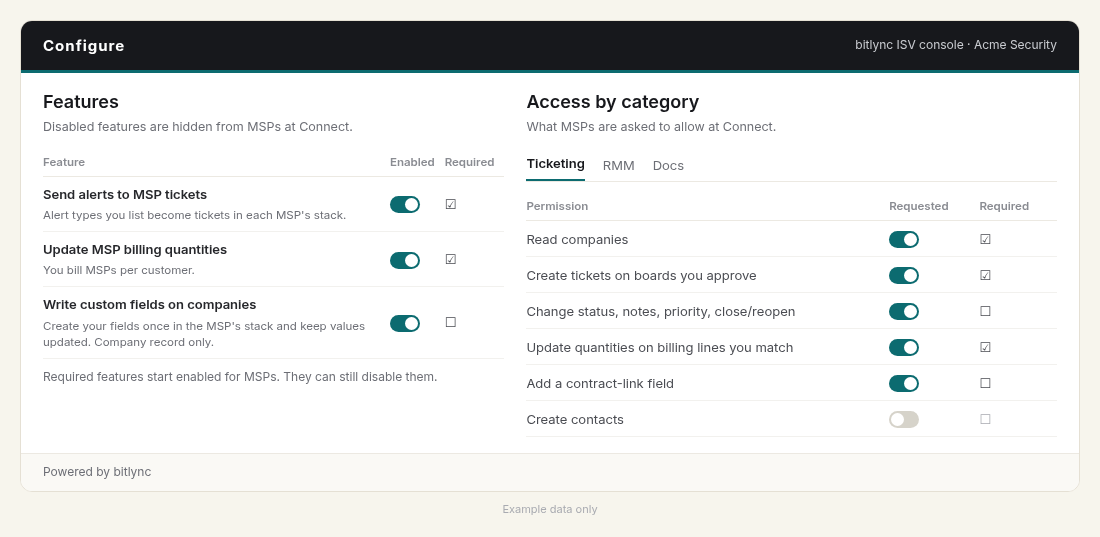
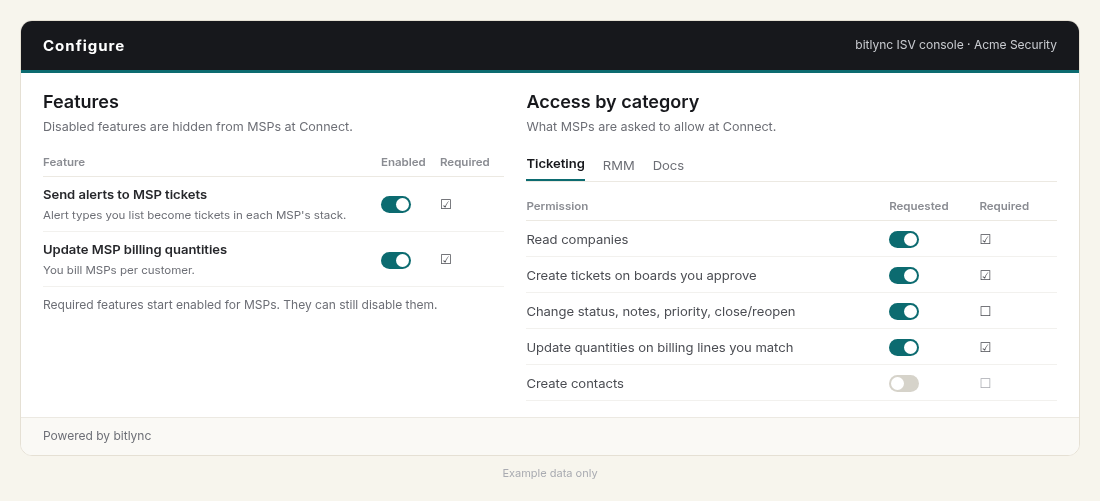
preview: Product page, least-privilege section, new section order, custom fields removed (#251)

diff --git a/preview/index.html b/preview/index.html
@@ -1926,20 +1926,20 @@ body.docs footer{border-top-color:var(--dline);color:var(--dmute)}
 <div class="msp-collage"><div class="grid g3"><div class="msp-tile msp-rise"><div class="tilt"><div class="ui"><div class="uh"><span>Connect your stack</span><span>Acme Security</span></div><div class="ub"><div class="dig-row"><span class="dig-k">Site</span><span>Stack address ✓</span></div><div class="dig-row"><span class="dig-k">Company ID</span><span>summitpeak ✓</span></div><div class="dig-row"><span class="dig-k">Keys</span><span>Public and private ✓</span></div><div class="dig-note">Example data</div></div></div></div></div><div class="msp-tile msp-rise"><div class="tilt"><div class="ui"><div class="uh"><span>Alert types</span><span>Acme Security</span></div><div class="ub"><div class="rrow" style="grid-template-columns:1fr auto"><span>Malware detected</span><span class="sev"><i></i>Critical</span></div><div class="rrow" style="grid-template-columns:1fr auto"><span>Renewal notice</span><span class="sev l"><i></i>Low</span></div><div class="rrow" style="grid-template-columns:1fr auto"><span>Connection problem</span><span class="sev m"><i></i>High</span></div></div></div></div></div><div class="msp-tile msp-rise"><div class="tilt"><div class="ui"><div class="uh"><span>Activity · Billing</span><span>Acme Security</span></div><div class="ub"><table class="bt"><tr><th>Customer</th><th>Current</th><th>Next update</th></tr><tr><td>Northwind Clinic</td><td>48 users</td><td>Oct 20</td></tr><tr><td>Cedar Health</td><td>60 users</td><td>Oct 20</td></tr></table><div class="dig-note">Example data</div></div></div></div></div></div></div></div>
 <a class="msp-cue" href="#s1" aria-label="Scroll down"><svg width="22" height="22" viewBox="0 0 22 22" aria-hidden="true" focusable="false"><path d="M5.5 8.5l5.5 5.5 5.5-5.5" fill="none" stroke="currentColor" stroke-width="1.5" stroke-linecap="round" stroke-linejoin="round"/></svg></a></section>
 <section class="pad band" id="s1"><div class="wrap"><div class="vsplit rev">
-<div class="scopy msp-rise"><span class="vtag">Connect</span><h2>One Connect flow.</h2><p class="sub">Your MSPs connect their stack in a few steps, with instructions showing exactly where to find each value. You don't build or maintain setup docs for those integrations.</p></div>
-<div class="msp-rise lag msp-shot"><div class="ui"><img src="assets/prod_connect_keys.png" srcset="assets/prod_connect_keys.png 1x, assets/prod_connect_keys@2x.png 2x" alt="Connect step: stack keys"></div></div></div></div></section><section class="pad band" id="s2"><div class="wrap"><div class="vsplit">
 <div class="scopy msp-rise"><span class="vtag">Branding</span><h2>Your brand throughout.</h2><p class="sub">The screens your MSPs see use your logo, colors and theme. Check the preview, then save and publish.</p></div>
-<div class="msp-rise lag msp-shot"><div class="ui"><img src="assets/prod_branding.png" srcset="assets/prod_branding.png 1x, assets/prod_branding@2x.png 2x" alt="Branding settings in the ISV console"></div></div></div></div></section><section class="pad band" id="s3"><div class="wrap"><div class="vsplit rev">
+<div class="msp-rise lag msp-shot"><div class="ui"><img src="assets/prod_branding.png" srcset="assets/prod_branding.png 1x, assets/prod_branding@2x.png 2x" alt="Branding settings in the ISV console"></div></div></div></div></section><section class="pad band" id="s2"><div class="wrap"><div class="vsplit">
+<div class="scopy msp-rise"><span class="vtag">Connect</span><h2>One Connect flow.</h2><p class="sub">Your MSPs connect their stack in a few steps, with instructions showing exactly where to find each value. You don't build or maintain setup docs for those integrations.</p></div>
+<div class="msp-rise lag msp-shot"><div class="ui"><img src="assets/prod_connect_keys.png" srcset="assets/prod_connect_keys.png 1x, assets/prod_connect_keys@2x.png 2x" alt="Connect step: stack keys"></div></div></div></div></section><section class="pad band" id="s3"><div class="wrap"><div class="vsplit rev">
+<div class="scopy msp-rise"><span class="vtag">Least privilege</span><h2>Least privilege, checked at Connect.</h2><p class="sub">Ask only for what you need. Riskier writes start off, and Bitlync refuses deletes. At Connect, Bitlync checks the MSP's keys against the permissions you ask for and shows what's missing, with the steps to fix it.</p><ul class="mlist"><li>Setup instructions point MSPs to a dedicated Bitlync API member or technician.</li><li>Connect attempts with missing permissions show in your Activity log.</li><li>If a permission is lost later, the MSP gets a connection problem alert.</li></ul></div>
+<div class="msp-rise lag msp-shot"><div class="ui"><img src="assets/prod_permission_check.png" srcset="assets/prod_permission_check.png 1x, assets/prod_permission_check@2x.png 2x" alt="Permission check at Connect with one missing permission and its fix"></div></div></div></div></section><section class="pad band" id="s4"><div class="wrap"><div class="vsplit">
 <div class="scopy msp-rise"><span class="vtag">Configuration</span><h2>MSPs see what you'll use before they connect.</h2><p class="sub">Turn features on, mark what's required, and request permissions by category. Disabled features are hidden from MSPs at Connect.</p></div>
-<div class="msp-rise lag msp-shot"><div class="ui"><img src="assets/prod_configure.png" srcset="assets/prod_configure.png 1x, assets/prod_configure@2x.png 2x" alt="Features and access by category"></div></div></div></div></section><section class="pad band" id="s4"><div class="wrap"><div class="vsplit">
+<div class="msp-rise lag msp-shot"><div class="ui"><img src="assets/prod_configure.png" srcset="assets/prod_configure.png 1x, assets/prod_configure@2x.png 2x" alt="Features and access by category"></div></div></div></div></section><section class="pad band" id="s5"><div class="wrap"><div class="vsplit rev">
 <div class="scopy msp-rise"><span class="vtag">Alerts</span><h2>Alerts your MSPs act on.</h2><p class="sub">Define your own alert types with severities and defaults. Each MSP routes them to a ticket, email or digest in their stack.</p><ul class="mlist"><li>Product alerts: the alerts your product sends.</li><li>Renewal notice, 30, 60 or 90 days before renewal.</li><li>Pricing and packaging changes.</li><li>Integration health: connection, sync and data problems.</li></ul></div>
-<div class="msp-rise lag msp-shot"><div class="ui"><img src="assets/prod_alert_types.png" srcset="assets/prod_alert_types.png 1x, assets/prod_alert_types@2x.png 2x" alt="Alert types in the ISV console"></div></div></div></div></section><section class="pad band" id="s5"><div class="wrap"><div class="vsplit rev">
+<div class="msp-rise lag msp-shot"><div class="ui"><img src="assets/prod_alert_types.png" srcset="assets/prod_alert_types.png 1x, assets/prod_alert_types@2x.png 2x" alt="Alert types in the ISV console"></div></div></div></div></section><section class="pad band" id="s6"><div class="wrap"><div class="vsplit">
 <div class="scopy msp-rise"><span class="vtag">Billing</span><h2>Billing quantities that stay current.</h2><p class="sub">Quantities update automatically in the MSP's PSA on the agreements they matched. Your MSPs use those quantities to keep customer agreements current, so they bill customers for what they actually use.</p></div>
-<div class="msp-rise lag msp-shot"><div class="ui"><img src="assets/prod_billing.png" srcset="assets/prod_billing.png 1x, assets/prod_billing@2x.png 2x" alt="Billing activity with current and peak counts"></div></div></div></div></section><section class="pad band" id="s6"><div class="wrap"><div class="vsplit">
+<div class="msp-rise lag msp-shot"><div class="ui"><img src="assets/prod_billing.png" srcset="assets/prod_billing.png 1x, assets/prod_billing@2x.png 2x" alt="Billing activity with current and peak counts"></div></div></div></div></section><section class="pad band" id="s7"><div class="wrap"><div class="vsplit rev">
 <div class="scopy msp-rise"><span class="vtag">Customer matching</span><h2>Customers matched for you.</h2><p class="sub">Bitlync suggests matches between your customers and the MSP's companies, so onboarding takes less of your team's time. MSPs can also import companies that aren't matched yet as new customers in your product.</p></div>
-<div class="msp-rise lag msp-shot"><div class="ui"><img src="assets/prod_map_companies.png" srcset="assets/prod_map_companies.png 1x, assets/prod_map_companies@2x.png 2x" alt="Map companies step with suggested matches"></div></div></div></div></section><section class="pad band" id="s7"><div class="wrap"><div class="vsplit rev">
-<div class="scopy msp-rise"><span class="vtag">Custom fields</span><h2>A field on each company record.</h2><p class="sub">Write a value like a contract link onto each company record in the MSP's stack. Bitlync creates the field once.</p></div>
-<div class="msp-rise lag msp-shot"><div class="ui"><img src="assets/prod_custom_fields.png" srcset="assets/prod_custom_fields.png 1x, assets/prod_custom_fields@2x.png 2x" alt="Custom fields in the ISV console"></div></div></div></div></section><section class="pad band" id="s8"><div class="wrap"><div class="vsplit">
+<div class="msp-rise lag msp-shot"><div class="ui"><img src="assets/prod_map_companies.png" srcset="assets/prod_map_companies.png 1x, assets/prod_map_companies@2x.png 2x" alt="Map companies step with suggested matches"></div></div></div></div></section><section class="pad band" id="s8"><div class="wrap"><div class="vsplit">
 <div class="scopy msp-rise"><span class="vtag">Health and activity</span><h2>Know when a connection breaks.</h2><p class="sub">Integration health and an activity log show you and the MSP what happened and when.</p></div>
 <div class="msp-rise lag msp-shot"><div class="ui"><img src="assets/prod_activity.png" srcset="assets/prod_activity.png 1x, assets/prod_activity@2x.png 2x" alt="Activity log with alert delivery"></div></div></div></div></section>
 <section class="pad band"><div class="wrap"><div class="center msp-rise" style="margin-bottom:26px"><p class="kicker">More in the box</p><h2>The details, handled.</h2></div>
